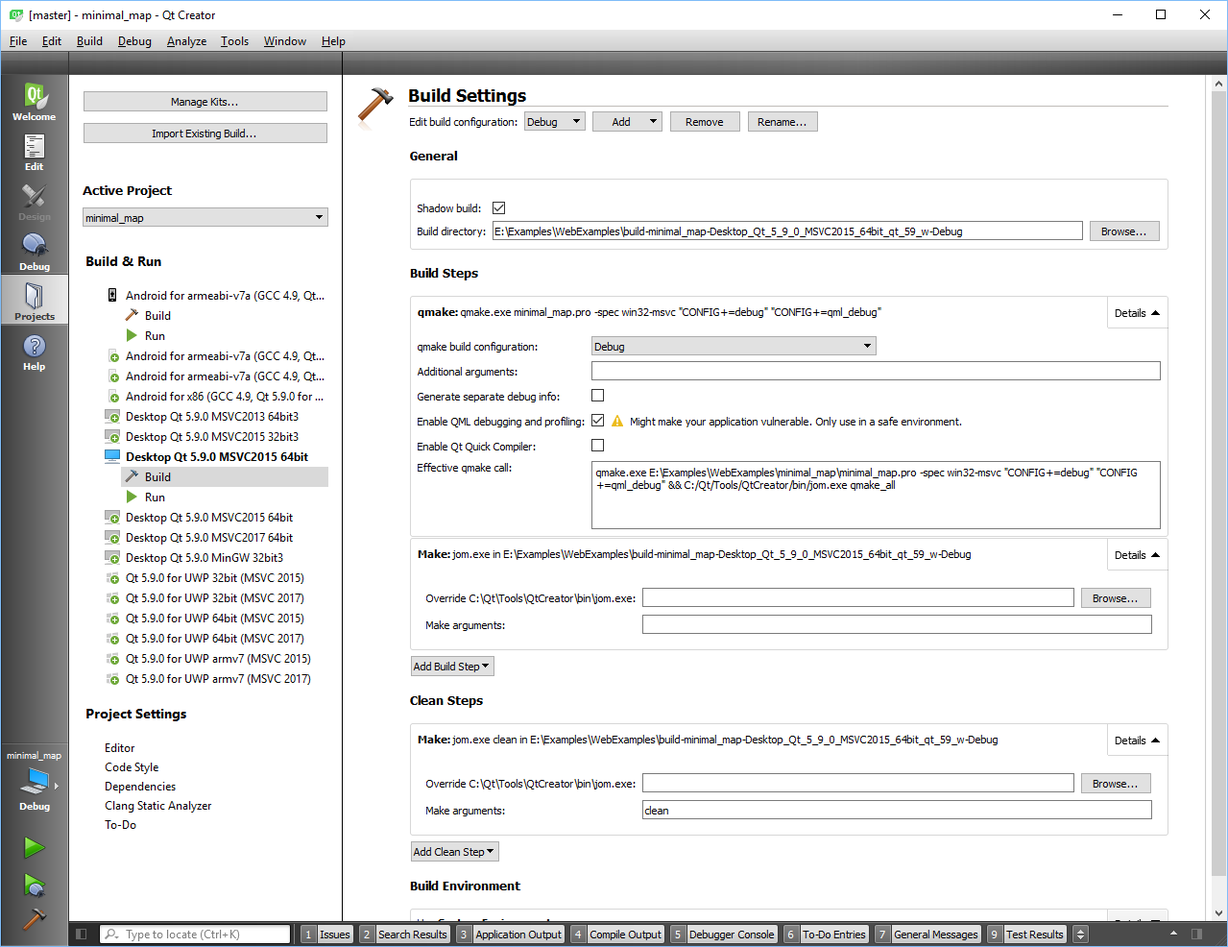
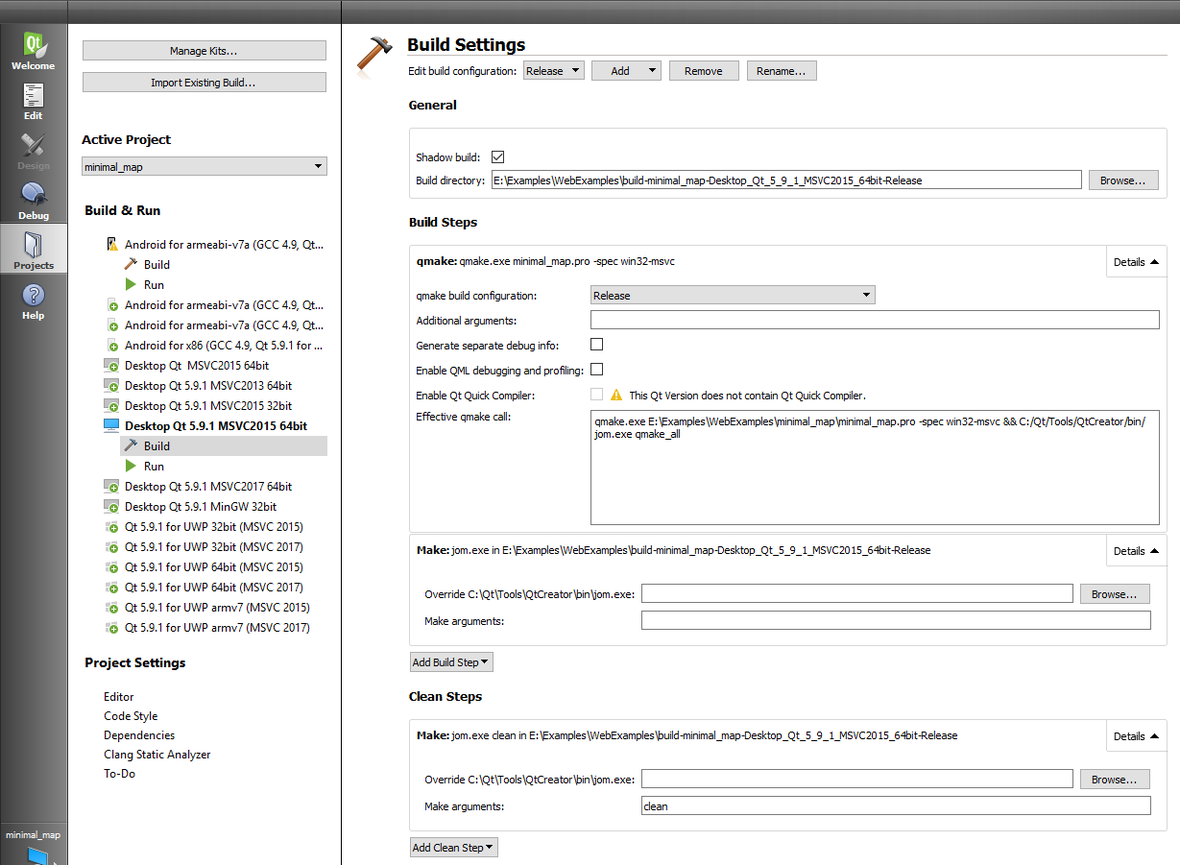
Updated post, added new SEV batch

Changed region(s): [[0.0, 0.0, 1.0, 1.0], [0.8967, 0.3108, 0.9276, 0.3418]]

diff --git a/posts/minimal_map/autobuild_minimalmap.html b/posts/minimal_map/autobuild_minimalmap.html
@@ -1,109 +1,115 @@
-Auto scripts for building and deployment are an important part of software development. In the next couple of posts, I will look at creating simple Windows auto build and deploy batch files for applications developed using Qt Creator with GitHub for source control.
+Here I look at creating simple Windows auto build and deploy batch files for applications developed using Qt Creator with GitHub for source control.
 
-This is targeted at the situations where you are working on a Windows based Qt Project using Qt creator and have finish coding and wish to move to deployment. We will look at how to write a Windows .bat file that will auto build the project then create an install script for installation on Windows. In the tutorial, I will use the <a href="https://doc.qt.io/qt-5/qtlocation-minimal-map-example.html">Qt minimal_map example</a>. which I have put on a GitHub site. The project can be cloned from <a href="https://github.com/Sriep/WebExamples.git">https://github.com/Sriep/WebExamples.git</a> and is then found in the minimal_map directory. We will use <a href="http://www.jrsoftware.org/isinfo.php">Inno Setup </a>to create the installation script.
+This is targeted at the situations where you are working on a Windows based Qt Project using Qt creator and have finish coding and wish to move to deployment. We will look at how to write a Windows .bat file that will auto build the project then create an install script for, installation on Windows. This is the most basic type of continuous deployment pipeline, and while using a batch file is all you need here. For more sophisticated deployment pipelines, such as say ones with conditional branches and automated update documentation, it might be best to use more advance tools.
+
+In the tutorial, I will use the <a href="https://doc.qt.io/qt-5/qtlocation-minimal-map-example.html">Qt minimal_map example</a>. which I have put on a GitHub site. The project can be cloned from <a href="https://github.com/Sriep/WebExamples.git">https://github.com/Sriep/WebExamples.git</a> and is then found in the minimal_map directory. We will use <a href="http://www.jrsoftware.org/isinfo.php">Inno Setup </a>to create the installation script.
+
+To follow this example you will need <a href="https://www.qt.io/">Qt Creator</a>, <a href="https://git-scm.com/downloads">Git </a>and <a href="http://www.jrsoftware.org/isdl.php">Inno Setup </a>installed on a Windows machine. The final script can be found <a href="https://github.com/Sriep/WebExamples/blob/master/minimal_map/deploy/buildWin_minimal_map_final.bat">here</a>.
 <h2>Download and run project</h2>
-The basic rule on building Qt Creator projects on the command line is that all the required commands are documented on the Project tab.
+First, to check that everything is working ok, we should download and run the minimal_map project. To do this select a folder and run from the command line
+<pre>git clone https://github.com/Sriep/WebExamples.git</pre>
+Open Qt Creator and open the <em>minimal_map/minimal_map.pro project</em> file. This is the Qt minimal map example that I have copied into a GitHub directory. You should be able to find the original somewhere like C:\Qt\Examples\Qt-5.9\location\minimal_map.
 
-Select a folder and run from the command line
-<blockquote><em><span style="color: #00ff00;">git clone <a href="https://github.com/Sriep/WebExamples.git">https://github.com/Sriep/WebExamples.git</a></span></em></blockquote>
-Open Qt Creator and open the <span class="css-truncate css-truncate-target"><a id="7a40da7ae44f06ab926427dbabf076f8-5210809fb1ef5968f2e94ec64e750401951e8401" class="js-navigation-open" title="minimal_map" href="https://github.com/Sriep/WebExamples/tree/master/minimal_map">minimal_map</a>/</span><em>minimal_map.pro project</em> file. This is the Qt minimal map example that I have copied into a GitHub directory.
-
-In Qt Creator select the Project tab in the left-hand tab panel. Make sure that you are using a Windows Kit, something like "Desktop Qt 5.9.0 MSVC2015 64bit". Build the project and confirm you get something like Figure 1.
+In Qt Creator select the Project tab in the left-hand tab panel. Make sure that you are using a Windows Kit, something like "Desktop Qt 5.9.0 MSVC2015 64bit". Build the project and then run it. Confirm you get something like Figure 1.
 
 [caption id="attachment_13" align="alignnone" width="283"]<img class="size-medium wp-image-13" src="http://piersshepperson.co.uk/programming/wp-content/uploads/2017/06/f1_oslo-283x300.png" alt="Image of minimal map running." width="283" height="300" /> Figure 1: Image of minimal_map running.[/caption]
-<h2>Build from command line</h2>
+<h2>Build Qt project from DOS command line</h2>
 The rule of thumb for building Qt Creator projects on the command line is to use the code in the Project tab, Build settings page. Figure 2.
 
-[caption id="attachment_14" align="alignnone" width="300"]<img class="size-medium wp-image-14" src="http://piersshepperson.co.uk/programming/wp-content/uploads/2017/06/f2_build_settings-300x231.png" alt="QT Creator Build settings for the minimal map project." width="300" height="231" /> Figure 2: QT Creator Build settings for the minimal_map project.[/caption]
+[caption id="attachment_14" align="alignnone" width="1024"]<img class="size-large wp-image-14" src="http://piersshepperson.co.uk/programming/wp-content/uploads/2017/06/f2_build_settings-1024x751.png" alt="QT Creator Build settings for the minimal map project." width="1024" height="751" /> Figure 2: QT Creator Build settings for the minimal_map project.[/caption]
 
 Copying the commands from the Build Steps, Clean Steps sections of the project Build Settings page we get something like. The paths will probably be slightly different for you.
-<blockquote><span style="color: #00ff00;">qmake.exe E:\Examples\WebExamples\minimal_map\minimal_map.pro -spec win32-msvc "CONFIG+=debug" "CONFIG+=qml_debug" &amp;&amp; C:/Qt/Tools/QtCreator/bin/jom.exe qmake_all</span>
+<blockquote><span style="color: #0000ff;">qmake.exe E:\Examples\WebExamples\minimal_map\minimal_map.pro -spec win32-msvc "CONFIG+=debug" "CONFIG+=qml_debug" &amp;&amp; C:/Qt/Tools/QtCreator/bin/jom.exe qmake_all</span>
 
-<span style="color: #00ff00;">jom.exe in E:\Examples\WebExamples\build-minimal_map-Desktop_Qt_5_9_0_MSVC2015_64bit_qt_59_w-Debug</span>
+<span style="color: #00ff00;">jom.exe in E:\Examples\WebExamples\build-minimal_map-Desktop_Qt_5_9_0_MSVC2015_64bit_qt_59_w-Release</span>
 
-<span style="color: #00ff00;">jom.exe clean in E:\Examples\WebExamples\build-minimal_map-Desktop_Qt_5_9_0_MSVC2015_64bit_qt_59_w-Debug</span></blockquote>
-Try running the first qmake.exe command.
+<span style="color: #00ff00;">jom.exe clean in E:\Examples\WebExamples\build-minimal_map-Desktop_Qt_5_9_0_MSVC2015_64bit_qt_59_w-Release</span></blockquote>
+Now test our rule of thumb try running the first qmake.exe command; the one cloured blue..
 
 What goes wrong?
 <h3>Add Qt directory to PATH</h3>
-The first thing that could go wrong is that qmake.exe won't be recognised. This should be an easy problem to fix. You either need to add the directory where qmake.exe is to your PATH environmental variable, or you need to fully path the qmake.exe command.
+The first thing that could go wrong is that qmake.exe won't be recognised. For an experinced Windows develoer this should be a familiar problem to recognise and fix. You either need to add the directory where qmake.exe is to your PATH environmental variable, or you need to fully path the qmake.exe command. We will add it to our PATH at the start of the batch file we are building.
 
-Which qmake.exe am I using?
+So we need to know 'which qmake.exe am we are using'?
 
-Browser to your Qt directory. For me its C:\Qt\5.9\msvc2015. You should see something like figure 3.
+Browse to your Qt directory. For me its C:\Qt\5.9\msvc2015. You should see something like figure 3.
 
-[caption id="attachment_15" align="alignnone" width="300"]<img class="size-medium wp-image-15" src="http://piersshepperson.co.uk/programming/wp-content/uploads/2017/06/f3_qt59_folder-300x220.png" alt="Qt 5.9 direcotory in windows file explorer, showing the different Qt Versions." width="300" height="220" /> Figure 3: Qt 5.9 directory, showing the different Qt Versions.[/caption]
+[caption id="attachment_15" align="alignnone" width="833"]<img class="size-full wp-image-15" src="http://piersshepperson.co.uk/programming/wp-content/uploads/2017/06/f3_qt59_folder.png" alt="Qt 5.9 directory in windows file explorer, showing the different Qt Versions." width="833" height="611" /> Figure 3: Qt 5.9 directory, showing the different Qt Versions.[/caption]
 
 There are a lot of different Qt Versions, all with their own bin directories and qmake.exe s. To find the one we need requires a little "paper chase".
 <ol>
  	<li>Go to the Project tab. Note the selected Qt version in the Build &amp; Run section of the left-hand panel. For me its "Desktop Qt 5.9.0 MSVC201564bit" figure 2.</li>
- 	<li>Menu: Tools/Options. Build &amp; Run tab, Kits tab. Select the Qt version from (1) in the list. Probably in the Auto-detected section.</li>
- 	<li>Lots of information should appear about your Qt version. Note the entry in the Qt version row. For me, it's "Qt 5.9.0 MSVC2015 64bit" figure 4.</li>
+ 	<li>Menu: Tools/Options. Build &amp; Run tab, Kits tab. Select the Qt version from (1) in the list. You will probably find it in the Auto-detected section.</li>
+ 	<li>Lots of information should appear about your Qt version. Note the entry in the Qt version row. For me, it's "Qt 5.9.0 MSVC2015 64bit"; figure 4 circled in red. Figure shows a close up of the Qt version row.</li>
  	<li>Now go to the Qt Versions tab and select the Qt version from (3).</li>
- 	<li>The "qmake location" field at the bottom of the page should now be populated with the qmake you want. For me it was "C:\Qt\5.9\msvc2015_64\bin\qmake.exe". Figure 5.</li>
+ 	<li>The "qmake location" field at the bottom of the page should now be populated with the qmake you want. For me it was "C:\Qt\5.9\msvc2015_64\bin\qmake.exe". Figure 6.</li>
 </ol>
-[caption id="attachment_16" align="alignnone" width="300"]<img class="size-medium wp-image-16" src="http://piersshepperson.co.uk/programming/wp-content/uploads/2017/06/f4BuildRun-300x231.png" alt="Qt Creator, Options, Build&amp; Run, Kits panel." width="300" height="231" /> Figure 4: Qt Creator, Options, Build&amp; Run, Kits panel.[/caption]
+[caption id="attachment_16" align="alignnone" width="1024"]<img class="size-large wp-image-16" src="http://piersshepperson.co.uk/programming/wp-content/uploads/2017/06/f4BuildRun-1024x789.png" alt="Qt Creator, Options, Build&amp; Run, Kits panel." width="1024" height="789" /> Figure 4: Qt Creator, Options, Build&amp; Run, Kits panel.[/caption]
 
-[caption id="attachment_19" align="alignnone" width="300"]<img class="size-medium wp-image-19" src="http://piersshepperson.co.uk/programming/wp-content/uploads/2017/06/f4.5_qt5.9Versions-300x203.png" alt="Qt Creator, Options, Build&amp; Run, Qt Version panel." width="300" height="203" /> Figure 5: Qt Creator, Options, Build&amp; Run, Qt Version panel.[/caption]
+<div class="mceTemp">
 
-Remember that some versions of QtCreator might have stuff set up slightly differently. For instance, the Options panel might be located on the Tools menu. Don't panic just look around for it.
+&nbsp;
+<div class="mceTemp">
+<div class="mceTemp"><img class="size-large wp-image-67" src="http://piersshepperson.co.uk/programming/wp-content/uploads/2017/06/f4.1BuildRun-1024x266.png" alt="Compiler and Qt version rows circled in Options/Build &amp; Run panel." width="1024" height="266" />Figure 5: Compiler and Qt version rows circled in Options/Build &amp; Run panel.&nbsp;
 
-So run the following on the command line. Where instead of C:\Qt\5.9\msvc2015_64 enter whatever qmake path you found on your QtVersion.
-<blockquote><span style="color: #00ff00;">set QT_DIR=C:\Qt\5.9\msvc2015_64</span>
+[caption id="attachment_19" align="alignnone" width="868"]<img class="size-full wp-image-19" src="http://piersshepperson.co.uk/programming/wp-content/uploads/2017/06/f4.5_qt5.9Versions.png" alt="Qt Creator, Options, Build&amp; Run, Qt Version panel." width="868" height="586" /> Figure 6: Qt Creator, Options, Build&amp; Run, Qt Version panel.[/caption]
 
-<span style="color: #00ff00;">
+Remember that some versions of QtCreator might be set up slightly differently. For instance, the Options panel might be located on the Tools menu. Don't panic just look around for it.
+
+To add qmake.exe to the path run the following on the command line. Where instead of C:\Qt\5.9\msvc2015_64 enter whatever qmake path you found on your QtVersion.
+<blockquote><span style="color: #00ff00;">set QT_DIR=C:\Qt\5.9\msvc2015_64</span><span style="color: #00ff00;">
 set PATH=%QT_DIR%\bin;%PATH%</span></blockquote>
-You should set the Qt bin directory at the head of your PATH, even if qmake.exe is being found. You cannot necessarily be sure the default qmake.exe is the right one.
+Thses two lines should appear somewhere near the top of our batch file. You should set the Qt bin directory at the head of your PATH, even if qmake.exe is being found. You cannot necessarily be sure the default qmake.exe is the right one.
 
 Now rerun the qmake command. qmake should now be found and you should get a new error.
 <h3>QMAKE_MSC_VER isn't set</h3>
-You should all now be getting some error complaining about environmental variable snot being set. For me the error message is
+You should all now be getting some error complaining about environmental variables not being set. For me the error message is
 <blockquote><span style="color: #ff0000;">Info: creating stash file E:\Examples\WebExamples\minimal_map\.qmake.stash</span>
 
 <span style="color: #ff0000;">C:/Qt/5.9/msvc2015_64/mkspecs/features/toolchain.prf:129: Variable QMAKE_CXX.COMPILER_MACROS is not defined.</span>
 
 <span style="color: #ff0000;">Project ERROR: msvc-version.conf loaded but QMAKE_MSC_VER isn't set</span></blockquote>
-At this point, there is the danger of jumping down a rabbit hole.  QMAKE_MSC_VER is not set, lets set it, what's our MSC_VER. Add a command to set it, rerun qmake and get another error. 'Fix' that one, get another, and so on.
+At this point, there is the danger of jumping down a rabbit hole:  QMAKE_MSC_VER is not set, lets set it, what's our MSC_VER. Add a command to set it, rerun qmake and get another error. 'Fix' that one, get another, and so on.
 
 NO! NO!
 
-To see what is missing we need to revisit our paper chase from the last section. We need to inspect the compilers panel.
+To see what is missing we need to revisit our paper chase from the last section. We need to inspect the compilers panel in Tools/Options.
 <ol>
  	<li>Go to the Project tab. Note the selected Qt version in the Build &amp; Run section of the left-hand panel. For me its "Desktop Qt 5.9.0 MSVC201564bit" figure 2.</li>
  	<li>Menu: Tools/Options. Build &amp; Run tab, Kits tab. Select the Qt version from (1) in the list. Probably in the Auto-detected section.</li>
- 	<li>Lots of information should appear about your Qt version.<strong> Note the entry in the Compiler C++ row.</strong> For me, it's "Microsoft Visual C++ Compiler 14.0 (amd64)" figure 3.</li>
+ 	<li>Lots of information should appear about your Qt version.<strong> Note the entry in the Compiler C++ row.</strong> For me, it's "Microsoft Visual C++ Compiler 14.0 (amd64)"; circled in blue in figure 4 and a close up in figure 5.</li>
  	<li>Visit the compilers tab. Select the row corresponding to the C++ compiler in (3).</li>
- 	<li>A row titled "Initialization" should appear with a command to run a .bat file. For me, the command was "C:\Program Files (x86)\Microsoft Visual Studio 14.0\VC\vcvarsall.bat amd64". Figure 6.</li>
+ 	<li>A row titled "Initialization" should appear with a command to run a .bat file. For me, the command was "C:\Program Files (x86)\Microsoft Visual Studio 14.0\VC\vcvarsall.bat amd64"; Figure 7, Figure 8 shows a close-up.</li>
 </ol>
-[caption id="attachment_11" align="alignnone" width="300"]<img class="size-medium wp-image-11" src="http://piersshepperson.co.uk/programming/wp-content/uploads/2017/06/f5Compilers-300x231.png" alt="" width="300" height="231" /> Figure 6: Qt Creator, Options, Build&amp; Run, Compilers panel.[/caption]
+[caption id="attachment_11" align="alignnone" width="817"]<img class="size-full wp-image-11" src="http://piersshepperson.co.uk/programming/wp-content/uploads/2017/06/f5Compilers.png" alt="" width="817" height="613" /> Figure 5: Qt Creator, Options, Build&amp; Run, Compilers panel.[/caption]
+
+[caption id="attachment_71" align="alignnone" width="547"]<img class="size-full wp-image-71" src="http://piersshepperson.co.uk/programming/wp-content/uploads/2017/06/f5.1BuildRun.png" alt="Close up of initizlisation script for selected compiler." width="547" height="93" /> Figure 8: Close up of initialization script for selected compiler.[/caption]
 
 What (5) is saying is that before we can run qmake.exe we need to run the indicated .bat file. This will set QMAKE_MSC_VER and the other environmental variables we will need.
 
-So no try running the batch file. But note there are likely spaces in the path, so you will probably need to put quotes around the path.
+So now try running the batch file. But note there are likely spaces in the path, so you will probably need to put quotes around the path.
 <blockquote><span style="color: #00ff00;">"C:\Program Files (x86)\Microsoft Visual Studio 14.0\VC\"vcvarsall.bat amd64</span></blockquote>
-Row try running the qmake command. If all is well you should see something like.
+Now try running the qmake command. If all is well you should see something like.
 
 <span style="color: #0000ff;">jom 1.1.2 - empower your cores</span>
 <h3>Build using jom.exe</h3>
-<a href="http://wiki.qt.io/Jom">jom is a clone of nmake</a>. In Qt Creator jom is used with the path to the output file as an argument. For reasons that will be clear later we will compile in the default location, which is in a subdirectory of the project source directory.
+<a href="http://wiki.qt.io/Jom">jom is a clone of nmake</a>. In Qt Creator jom is used with the path to the output file as an argument.  For reasons that will be clear later we will compile in the default location, which is in a subdirectory of the project source directory.
 
-jom.exe is part of Qt Creator. So you should probably add that to the path the same way as we added the qmake directory. C:\Qt\Tools\QtCreator\bin is where my Qt Creator is located, replace this with wherever your Qt Creator is located. No run.
-<blockquote><span style="color: #00ff00;">set PATH=C:\Qt\Tools\QtCreator\bin;%PATH%</span>
-
-<span style="color: #00ff00;">jom.exe </span>
-
-<span style="color: #00ff00;">jom.exe clean</span></blockquote>
-jom.exe will build the project. jom.exe clean will remove unwanted files. You will find the result in the release directory of our minimal_map source directory.
+jom.exe is part of Qt Creator. So you should add the directory containing jom.exe to the PATH envoiremental varable in the same way as we added the qmake directory. C:\Qt\Tools\QtCreator\bin is where my Qt Creator is located, replace this with wherever your Qt Creator is located. Now run:
+<pre><span style="color: #00ff00;">set PATH=C:\Qt\Tools\QtCreator\bin;%PATH%
+jom.exe 
+jom.exe clean</span></pre>
+jom.exe will build the project. jom.exe clean will remove unwanted files. You will find the result in the release directory of our minimal_map source directory. We can now add these lines to the batch file we are building.
 <h2>Recap - buildWin_minimal_map1.bat</h2>
 So using what we have learnt so far we want to set up a batch file to:
 <ol>
  	<li>Set up environmental variables. Some of these could be converted into parameters.</li>
- 	<li>Download source from GitHub into new build directory. Make sure any previous directories have been deleted.</li>
+ 	<li>Download source from GitHub into new build directory; Make sure any previous directories have been deleted.</li>
  	<li>Run the initialise script. Remember to use 'call' to run a .bat file within another .bat file.</li>
  	<li>Run the commands from QtCreator Build Settings.</li>
 </ol>
-Change the BUILD_DIR, QT_DIR and QT_CREATERDIR in buildWin_minimal_map1.bat to match your system then run it. I have made the convention of naming the Project, project directory, executable and .pro file with the same label "minimal_map". This is generally good practice, as, as well as reducing confusion it allows the use of generic batch files like this one.
-<blockquote><em>REM Batch file for auto build</em>
+In the minimal_map/Deploy directroy you will find several .bat files. These are the batch files we are creating, buildWin_minimal_map1.bat shows were we are at so far. I have written it out below:
+<pre><em>REM Batch file for auto build</em>
 
 <em>REM Set project identity variables</em>
 <em>set PROJECTNAME=minimal_map</em>
@@ -132,14 +138,16 @@ mkdir<em> %BUILD_DIR%</em>
 <em>cd %SRCDIR%</em>
 <em>qmake.exe %SRCDIR%\%PROJECTNAME%.pro -spec win32-msvc "CONFIG+=qtquickcompiler" &amp;&amp; jom.exe qmake_all</em>
 <em>jom.exe </em>
-<em>jom.exe clean</em></blockquote>
+<em>jom.exe clean</em></pre>
+You will want to change the BUILD_DIR, QT_DIR and QT_CREATERDIR in buildWin_minimal_map1.bat to match your system then run it. I have made the convention of naming the Project, project directory, executable and .pro file with the same label "minimal_map". This is generally good practice, as, as well as reducing confusion it allows the use of generic batch files like this one.
+
 If you have problems running the whole file run each line in turn. Make sure the build directrory is empty. It is also best to do everything on one dirve, e.g. don't mix c: and d: paths. Make sure the BUILD_DIR, QT_DIR and QT_CREATERDIR variables match your system.
 <h2>Provide Qt system files</h2>
 You should now have a copy of  minimal_map.exe at %BUILD_DIR%\WebExamples\%PROJECTNAME%\release\minimal_map.exe.
 
-Now try running the file. E.g. double click in windows file explorer. You should get an error message about missing files similar to figure 7. Astute readers would have expected this, as we are missing .dll and other Qt files that our programme needs to run.
+Now try running the file. E.g. double click in windows file explorer. You should get an error message about missing files similar to figure 9. Astute readers would have expected this, as we are missing .dlls and other Qt files that our programme needs to run.
 
-[caption id="attachment_12" align="alignnone" width="300"]<img class="size-medium wp-image-12" src="http://piersshepperson.co.uk/programming/wp-content/uploads/2017/06/f6NoDllError-300x112.png" alt="Figure 6: Dll not found error message." width="300" height="112" /> Figure 6: Entry point not found error message.[/caption]
+[caption id="attachment_12" align="alignnone" width="481"]<img class="size-full wp-image-12" src="http://piersshepperson.co.uk/programming/wp-content/uploads/2017/06/f6NoDllError.png" alt="Figure 6: Dll not found error message." width="481" height="179" /> Figure 6: Dll not found error message.[/caption]
 
 Sometimes where we do this sort of test the executable will run despite missing the required files. This means the operating system has managed to find some matching files somewhere. This is bad and is why it is advisable to do deployment tests on a machine without Qt installed, or if that is too inconvinet as here, just temporarily rename the Qt directory.
 
@@ -151,48 +159,60 @@ So that works, but the big problem is that our build is now nearly 5GB. This is 
 
 If our maximal build works we know that we just need to add the right files to complete our build. While if it does not work, we know that the problem is elsewhere and maybe our project is not ready for deployment.
 <h3>windeployqt.exe</h3>
-The Windows deployment tool, windeployqt.exe, is a useful tool that takes an executable, and copies over the Qt files needed to support running the executable.
-
-The tool works fairly well. It copies most files over but sometimes will miss some. We will see that when we look at the simpletextviewer project later.
+The Windows deployment tool, windeployqt.exe, is a useful tool that takes an executable, and copies over the Qt files needed to support running the executable.  The tool works fairly well. It copies most files over but sometimes will miss some. We will see that when we look at the simpletextviewer project later.
 
 You can read more about windepolyqt.exe at <a href="http://doc.qt.io/qt-5/windows-deployment.html">http://doc.qt.io/qt-5/windows-deployment.html</a>. We will be running windepolyqt.exe with two arguments, the qml source directory and the path to our minimal_map.exe file.
 
 windepolyqt.exe --qmldir [qml source directory] [our.exe]
 
 We can now add four more lines to our batch file
-<blockquote>REM Build release
+<pre>REM Build release
 set WINDEPLOYQT_EXE=%QT_DIR%\bin\windeployqt.exe
 set RELEASE_DIR=%SRCDIR%\release
 set QML_DIR=%SRCDIR%
-%WINDEPLOYQT_EXE% --qmldir %QML_DIR% %RELEASE_DIR%\%PROJECTNAME%.exe</blockquote>
-Delete your build directory, and try running buildWin_minimal_map2.bat.  Now find the release directory and run minimal_map.exe; this time it should run smoothly.
+%WINDEPLOYQT_EXE% --qmldir %QML_DIR% %RELEASE_DIR%\%PROJECTNAME%.exe</pre>
+Delete your build directory, and try running \minimal_map\deploy\buildWin_minimal_map2.bat.  Now find the release build directory and run the just built minimal_map.exe; this time it should run smoothly.
 <h3>Dependency Walker</h3>
-We does not apply herer, but if on testing it becomes apparent that windeployqt.exe has not copied all the files over, you need to find the missing files. It's usually going to be best to start with the windeployqt.exe solution and add files, rather than use the maximal solution and remove files.
+It does not apply her, but if on testing if it becomes apparent that windeployqt.exe has not copied all the files over, you need to find the missing files. It's usually going to be best to start with the windeployqt.exe solution and add files, rather than use the maximal solution and remove files.
 
-One useful tool is Dependancy Walker; it can be downloaded from http://www.dependencywalker.com . If you load an executable file into Dependancy Walker it will list the dependent DLLs. you can use this to determine the missing files.
+One useful tool is Dependancy Walker; it can be downloaded from http://www.dependencywalker.com . If you load an executable file into Dependancy Walker it will list the dependent DLLs. Hence you can use this to determine the missing files.
 
-Alternatively, you can use common sense, error messages and knowledge of the code to guess the files. Checking internet blogs and forums can also be useful.
+Alternatively, you can use common sense, error messages and knowledge of the code to guess the files. Checking internet blogs and forums can also be useful.  We will look at these options further <a href="http://piersshepperson.co.uk/programming/2017/06/17/autobuild-for-qt…ct-with-assitant/">in out next post</a>, when we write a build script for a project that includes the QT Assistant help application.
 
-We will look at these options further <a href="http://piersshepperson.co.uk/programming/2017/06/17/autobuild-for-qt…ct-with-assitant/">in out next post</a>.
-<h2>Installer</h2>
+Now that we have built our project, we wish to bind it together into a Windows install script. An executable that will automatically install our file on Windows.
+<h2>Installer, Inno setup</h2>
 For this post, I will be using <a href="http://www.jrsoftware.org/isinfo.php">Inno Setup </a>to create our installer. You can install from http://www.jrsoftware.org/isdl.php.
-
-To set up the installer you create a .iss file which gives the configuration details for your installation. Then run the executable iscc.exe using the .iss file as input. You can use the Compil32.exe to start a script wizard to create a custom .iss file.
-
-minimal_map\deploy\minimal_map.iss contains an example .iss file for the minimal_map.exe project. To run it we add the following lines to the end of our batch file. Change the set INNO_DIR command to match wherever you have installed Inno Setup.
-<blockquote>REM Create install file
-set INNO_DIR="C:\Program Files (x86)\Inno Setup 5"
-cd %INNO_DIR%
-iscc /Q %SRCDIR%\deploy\%PROJECTNAME%.iss</blockquote>
-Delete the current BUILD_DIR% directory and run buildWin_minimal_map_final.bat. In the WebExamples\minimal_map\deploy\Output\minimal_mapSetup.exe directory, you should find the installer.
 <h3>Configure .iss file</h3>
+minimal_map\deploy\minimal_map.iss contains an example .iss file for the minimal_map.exe project. Open it and try to make sense of it, online help documentation is provided <a href="http://www.jrsoftware.org/ishelp/">here</a>.
+
 All the paths in the .iss file are relative to the position of the .iss file. So for instance line 40
-<blockquote>[Files]
-Source: ..\release\*; DestDir: "{app}"; Flags: ignoreversion recursesubdirs createallsubdirs</blockquote>
+<pre>[Files]
+Source: ..\release\*; DestDir: "{app}"; Flags: ignoreversion recursesubdirs createallsubdirs</pre>
 We indicate the files to include in the installer as ..\release\*. This is why we used the default settings when we run jom.exe so that we can easily reference the files in %BUILD_DIR%\WebExamples\minimal_map\release to be included in the installation.
 
 Lines 24-26
-<blockquote>LicenseFile=LicenseFileWin.txt
+<pre>LicenseFile=LicenseFileWin.txt
 InfoBeforeFile=InfoBeforeWin.txt
-InfoAfterFile=InfoAfterWin.txt</blockquote>
+InfoAfterFile=InfoAfterWin.txt</pre>
 These files give the text that is displayed during installation. Feel free to edit.
+
+To set up the installer you create a .iss file which gives the configuration details for your installation. Then run the executable iscc.exe using the .iss file as input this will produce our installer. If you want you can use a script wizard, Compil32.exe, to create a custom .iss file.
+<h3>Final Batch script</h3>
+To run our minimal_map.iss file we add the following lines to the end of our batch file. Change the set INNO_DIR command to match wherever you have installed Inno Setup.
+<pre>REM Create install file
+set INNO_DIR="C:\Program Files (x86)\Inno Setup 5"
+cd %INNO_DIR%
+iscc /Q %SRCDIR%\deploy\%PROJECTNAME%.iss</pre>
+Delete the current BUILD_DIR% directory and run the <a href="https://github.com/Sriep/WebExamples/blob/master/minimal_map/deploy/buildWin_minimal_map_final.bat">buildWin_minimal_map_final.bat</a>. In the WebExamples\minimal_map\deploy\Output\minimal_mapSetup.exe directory, you should find the installer. 
+As a final test, you can run the installer to install the minimum map project on your PC.
+<h2>Summery</h2>
+We create a deployment script for the Qt example minimum_map, that can be easily modified to work with most simple Qt Creator projects. The steps followed:
+<ul>
+ 	<li>Set environmental variables for your project and system.</li>
+ 	<li>If necessary use vcvarsall.bat to set environmental variables for Visual Studio.</li>
+ 	<li>Compile using commands given in the Qt Creator Project, Build Settings tab.</li>
+ 	<li>Run windeployqt.exe to copy Qt and other dependencies need to run the project.</li>
+ 	<li>Use Inno Setup to create the final install file.</li>
+</ul>
+</div>
+</div>

diff --git a/posts/simpletextviewer/simpletextviewer.html b/posts/simpletextviewer/simpletextviewer.html
@@ -1,26 +1,30 @@
-We describe how to create a simple build deploy auto-script for Qt project that incorporates Qt Assistant and uses a modified version of the <a href="http://doc.qt.io/qt-5/qtassistant-simpletextviewer-example.html">QT Simple text viewer</a> as an example project.
+In my previous post on <a href="http://piersshepperson.co.uk/programming/2017/06/18/autobuild-qt-project-assitant/">auto-build and install scripts</a> I explored writing a simple Windows batch file to automate building a Qt Creator project then creating a Windows install script. In this post, I will look at a more complex project, that uses the Qt Help program Qt Assistant. Hopefully this should highlight some of the porblmes involved with deploying Qt Projects on widows and how to handle them.
 
-This is targeted at the situations where you are working on a Windows based Qt Project using Qt creator and have finish coding and wish to move to deployment. We will look at how to write a Windows .bat file that will auto build the project then create an install script for installation on Windows.This is a follow on from the minimal_map post and looks at a more complicated example.
+Specifically, we will create an auto-build and install script for a modified version of the <a href="http://doc.qt.io/qt-5/qtassistant-simpletextviewer-example.html">QT Simple text viewer</a> example project. The final batch file can be downloaded here.
+
+This is an example of where you use Qt Assistant to provide help information for an appliacation. Details of on how to customise the Qt Assistant for your needs can be found <a href="http://doc.qt.io/qt-5/assistant-custom-help-viewer.html">here</a>.
+
+This is targeted at the situations where you are working on a Windows based Qt Project using Qt creator and have finish coding and wish to move to deployment. We will look at how to write a Windows .bat file that will auto build the project then create an install script for installation on Windows. This is a follow on from the minimal_map post and looks at a more complicated example.
 <h2>Modifications to simpletextviewer</h2>
-In order to run the simpletextviewer outside the Qt Example framework, we have made a few alterations.
+In order to run the simpletextviewer outside the Qt Example framework, we have made a few alterations to the simpletextviewer project in the Qt Examples.
 <ul>
  	<li>resources.qrc: The contents of the documentation subdirectory have been added as resources as indicated in the new resources.qrc file. This adds the files in documents folder to the simpletextviewer.exe binary, so that the files can be accessed at runtime. You can read about the resource system at <a href="http://doc.qt.io/qt-5/resources.html">http://doc.qt.io/qt-5/resources.html</a>.</li>
  	<li>simpletextviewer.pro file: Added resources.qrc as a resource file.</li>
  	<li>assistant.cpp: startAssistant() changed so that simpletextviewer.exe runs assistant.exe from the working directory. showDocumentation changed so that the start Html file is found in the resources.</li>
 </ul>
 You can download the project from <a href="https://github.com/Sriep/WebExamples">https://github.com/Sriep/WebExamples</a> by running
-<blockquote>git clone https://github.com/Sriep/WebExamples.git</blockquote>
+<pre>git clone https://github.com/Sriep/WebExamples.git</pre>
 It can then be found in the simpletextviewer subdirectory.
 <h2>Build and run</h2>
-Build and run simpletextviewer in Qt Creator. Figure 1 shows the result.
+To confirm everything is set up corectly, try building and then running the simpletextviewer you just downloaded from GitHub in Qt Creator. Figure 1 shows the result.
 
 [caption id="attachment_28" align="alignnone" width="300"]<img class="size-medium wp-image-28" src="http://piersshepperson.co.uk/programming/wp-content/uploads/2017/06/sevf1simpletesxtviewer-300x199.png" alt="simpletextviewer program running" width="300" height="199" /> Figure1: Simple text viewer application running.[/caption]
 
 Now select the simple text viewer application and either choose the Help/Help Contents menu option, or the F1 keyboard shortcut. You should see the following error in figure 2.
 
-[caption id="attachment_27" align="alignnone" width="279"]<img class="size-medium wp-image-27" src="http://piersshepperson.co.uk/programming/wp-content/uploads/2017/06/sevf3qhcnotfound-279x300.png" alt="Errror message on running assistant without .qhc file." width="279" height="300" /> Figure 2: Error message on running assistant without the .qhc file.[/caption]
+[caption id="attachment_27" align="alignnone" width="279"]<img class="size-Large wp-image-27" src="http://piersshepperson.co.uk/programming/wp-content/uploads/2017/06/sevf3qhcnotfound-279x300.png" alt="Errror message on running assistant without .qhc file." width="279" height="300" /> Figure 2: Error message on running assistant without the .qhc file.[/caption]
 
-The reason for the error is that simpletextviewer.exe is trying to run assistant.exe with simpletextviewer.qhc as input. To fix the problem we need to copy simpletextviewer.qhc into the top level of the build directory. However, the .qhc file needs to build first. The .qhc, qhp, qhcp and qch files, the details are explained at http://doc.qt.io/qt-5/qthelp-framework.html. In short
+The reason for the error is that simpletextviewer.exe is trying to run assistant.exe with simpletextviewer.qhc as input and not finding simpletextviwer.qhc. To fix the problem we need to copy simpletextviewer.qhc into the top level of the build directory. However, the .qhc file needs to build first the .qhc, qhp, qhcp and qch files. The details are explained at http://doc.qt.io/qt-5/qthelp-framework.html. In short
 <ul>
  	<li>.qhp - contains the HTML formatted text to be displayed in assistant.</li>
  	<li>.qhcp - contains configuration customisation details for assistant.</li>
@@ -29,7 +33,7 @@ The reason for the error is that simpletextviewer.exe is trying to run assistan
 </ul>
 These could be built by running the commands by hand or in a batch file then manually copying the .qhc file over to the build directory.  However, the recommended way would be to add them to the Build settings as Custom Process Steps; figure 4.
 
-[caption id="attachment_30" align="alignnone" width="300"]<img class="size-medium wp-image-30" src="http://piersshepperson.co.uk/programming/wp-content/uploads/2017/06/sevf4BuildSettings-300x236.png" alt="Buils settins showing custom process steps for .qhc file generation." width="300" height="236" /> Figure 4: Buils settins showing custom process steps for .qhc file generation.[/caption]
+[caption id="attachment_120" align="alignnone" width="1207"]<img class="size-full wp-image-120" src="http://piersshepperson.co.uk/programming/wp-content/uploads/2017/06/f2.5_custom_settings.png" alt="Buils settins showing custom process steps for .qhc file generation." width="1207" height="733" /> Figure 4: Buils settins showing custom process steps for .qhc file generation.[/caption]
 
 Open the Project/Build Settings panel. Use the Add Build Step to add three steps.
 <ol>
@@ -39,12 +43,12 @@ Open the Project/Build Settings panel. Use the Add Build Step to add three steps
 </ol>
 %{buildDir} is a varabled holding the build directory.
 
-The main issues with this method is that the Project settings are held in the .pro.user file, which is a generated file so should not be under source control. Hence the build steps will need to be set up each time you reset the project from the source repository.
+One issues with this method is that the Project settings are held in the .pro.user file, which is a generated file so should not be under source control. Hence the build steps will need to be set up each time you reset the project from the source repository.
 <h2>Build Script</h2>
 <a href="http://piersshepperson.co.uk/programming/2017/06/15/autobuild-script-for-qt-projects/">In our previous post,</a> we created a build and install script for a simpler project. Let us see what happens when we apply that script to this project by replacing the PROJECTNAME minimal_map with simpletextviewer.
 
 Well, the first point is that we need to generate simpletextviewer.qhc. If we have set up our Build settings as in the previous section, then we should mirror those changes in our batch file. Following the rule of thumb that the commands from the build settings shuld be included in the build script, including our own custome steps. These modifications are shown in green below.
-<blockquote>REM Batch file for auto build
+<pre>REM Batch file for auto build
 
 REM Set project identity variables
 set PROJECTNAME=simpletextviewer
@@ -89,7 +93,8 @@ set QML_DIR=%SRCDIR%
 REM Create install file
 set INNO_DIR="C:\Program Files (x86)\Inno Setup 5"
 cd %INNO_DIR%
-iscc /Q %SRCDIR%\deploy\%PROJECTNAME%.iss</blockquote>
+iscc /Q %SRCDIR%\deploy\%PROJECTNAME%.iss
+</pre>
 Now change the BUILD_DIR environmental variable to fit your system and run the \WebExamples\simpletextviewer\deploy\buildWin_simpletextviewer1.bat batch file. Assuming all goes well try running \WebExamples\simpletextviewer\release\simpletextviewer.exe. You should be able to run this as shown in Figure 1, the interesting point is what happens when you try to run the assistant with F1 or the menu item Help/Help Contents.
 <h3>Assistant runs normally</h3>
 Assistant runs as shown in Figure 2. Ironically this is the result that indicates a misconfigures system. The operating system has managed to find an assistant.exe to run from somewhere. There is no reason to expect it is the right assistant.exe, but more if simpletextviewer.exe is installed on another system, we cannot expect an assistant.exe to be found unless it is included in the build.
@@ -102,24 +107,40 @@ An error message "Unable to launch Qt Assistant" figure 5 is the expected result
 
 Run depends.exe and load assistant.exe. Either drag and drop windows.exe into the window or use the File/Open menu. Eventually, you should see figure 5.
 
-[caption id="attachment_45" align="alignnone" width="300"]<img class="size-medium wp-image-45" src="http://piersshepperson.co.uk/programming/wp-content/uploads/2017/06/dependacyVrsWE2-300x224.png" alt="Left -Dependancy Walker with assistant.exe loaded. Right - Release directory after running windeployqt.exe." width="300" height="224" /> Figure 5: Left -Dependancy Walker with assistant.exe loaded. Right - Release directory after running windeployqt.exe. The comparison indicates which DLL we still need.[/caption]
+[caption id="attachment_45" align="alignnone" width="651"]<img class="size-full wp-image-45" src="http://piersshepperson.co.uk/programming/wp-content/uploads/2017/06/dependacyVrsWE2.png" alt="Left -Dependancy Walker with assistant.exe loaded. Right - Release directory after running windeployqt.exe." width="651" height="486" /> Figure 5: Left -Dependancy Walker with assistant.exe loaded. Right - Release directory after running windeployqt.exe.[/caption]
 
 Comparing the DLLs that dependency walker has indicated assistant.exe needs, with those windeployqt.exe has copied we see three missing: Qt5Hdlp.dll, Qt5Printsupport.dll and Qt5Sql,dll. To copy these for files we need to add the following to our batch file.
-<blockquote>REM Copy files for for assistant.exe
+<pre>
+REM Copy files for for assistant.exe
 copy /y %QT_DIR%\bin\assistant.exe %RELEASE_DIR%\assistant.exe
 copy /y %QT_DIR%\bin\Qt5Help.dll %RELEASE_DIR%\Qt5Help.dll
 copy /y %QT_DIR%\bin\Qt5Printsupport.dll %RELEASE_DIR%\Qt5Printsupport.dll
-copy /y %QT_DIR%\bin\Qt5Sql.dll %RELEASE_DIR%\Qt5Sql.dll</blockquote>
+copy /y %QT_DIR%\bin\Qt5Sql.dll %RELEASE_DIR%\Qt5Sql.dll
+</pre>
 Delete the previous build and run the buildWin_simpletextviewer2.bat batch file. Now run simpletextviewer.exe and then try to run the assistant with F1 or the menu item Help/Help Contents.
 
-[caption id="attachment_46" align="alignnone" width="300"]<img class="size-medium wp-image-46" src="http://piersshepperson.co.uk/programming/wp-content/uploads/2017/06/sevf4.5nosqldriver-300x46.png" alt="Missing sqlite driver, error message." width="300" height="46" /> Figure 6: Missing sqlite driver, error message.[/caption]
+[caption id="attachment_46" align="alignnone" width="817"]<img class="size-full wp-image-46" src="http://piersshepperson.co.uk/programming/wp-content/uploads/2017/06/sevf4.5nosqldriver.png" alt="Missing sqlite driver, error message." width="817" height="124" /> Figure 6: Missing sqlite driver, error message.[/caption]
 <h3>Sqlite drivers</h3>
-Ok, so we need to add some sql drivers. As it turns out there is a directory plugins\sqldrivers, which looks promising. Copy this from your QtVersion plugins directory into your simpletextviewer.exe release directory. Now try it to run assistant. Everything should work now.
+Ok, so we need to add some sql drivers. You do a search for drivers or sql in your Qt directory and see if anything looks promising. Or <a href="https://stackoverflow.com/questions/6326274/how-to-deliver-sqlite-driver-to-the-end-user">try the internet</a> you might get lucky.
+
+As it turns out there is a directory, plugins\sqldrivers, which looks promising. Copy this from your QtVersion plugins directory into your simpletextviewer.exe release directory. Now try it to run assistant. Everything should work now.
 
 Let's add the following lines to our batch script.
-<blockquote>mkdir %RELEASE_DIR%\sqldrivers
+<pre>
+mkdir %RELEASE_DIR%\sqldrivers
 copy /y %QT_DIR%\plugins\sqldrivers\qsqlite.dll %RELEASE_DIR%\sqldrivers\qsqlite.dll
 copy /y %QT_DIR%\plugins\sqldrivers\qsqlmysql.dll %RELEASE_DIR%\sqldrivers\qsqlmysql.dll
 copy /y %QT_DIR%\plugins\sqldrivers\qsqlodbc.dll %RELEASE_DIR%\sqldrivers\qsqlodbc.dll
-copy /y %QT_DIR%\plugins\sqldrivers\qsqlpsql.dll %RELEASE_DIR%\sqldrivers\qsqlpsql.dll</blockquote>
+copy /y %QT_DIR%\plugins\sqldrivers\qsqlpsql.dll %RELEASE_DIR%\sqldrivers\qsqlpsql.dll
+</pre>
 This gives us simpletextviewer\deploy\buildWin_simpletextviewer_final.bat. If we clear our build directory and try running buildWin_simpletextviewer_final.bat we should have our solution. Try installing WebExamples\simpletextviewer\deploy\Output\simpletextviewerSetup.exe on a PC without Qt and check everything works.
+<h3>Use windeployqt.exe on Qt Assistant</h3>
+Another solution for finding the files Qt Assistnat needs to run has subsequently occurred to me. You can of course run windeployqt.exe on Qt Assistant and see what files windeployqt thinks Qt Assistant. So making sure you are pointing to the write windeployqt and assistant run
+
+windeployqt.exe assistant.exe
+
+and see what files are copied across. Figure 7 gives a screenshot shot of what I got. The folders are from the plugins directory and the files from the bin directory of ???/msvc2015_64.
+
+[caption id="attachment_150" align="alignnone" width="270"]<img class="size-full wp-image-150" src="http://piersshepperson.co.uk/programming/wp-content/uploads/2017/07/assistantfiles.png" alt="" width="270" height="438" /> Figure 7: Files copied by running windeployqt.exe on assistant.exe.[/caption]
+<h2>OpenSSL</h2>
+OpenSSL is another module that windeployqt.exe won't be able to handle. It's not needed for the simpletextviewer project but for I will it is an issue I have had to resolve in the past. You need to download the dlls libeay32.dll, libssl32.dll and ssley32.dll. You can get it from the <a href="https://www.openssl.org/source/">Open SSL Cryptography and SSL/TLS Toolkit page</a>. <span style="background-color: #f6d5d9;">It's unclear whether you should use </span>the 1.0.2 version or 1.1.0 version; Personally, I found the  1.0.2 version of OpenSSSL worked. Once you have downloaded and installed openssl-1.0.2 you can use something like the following in your build script: copy /y C:\OpenSSL-Win64\*.dll %RELEASE_DIR%
